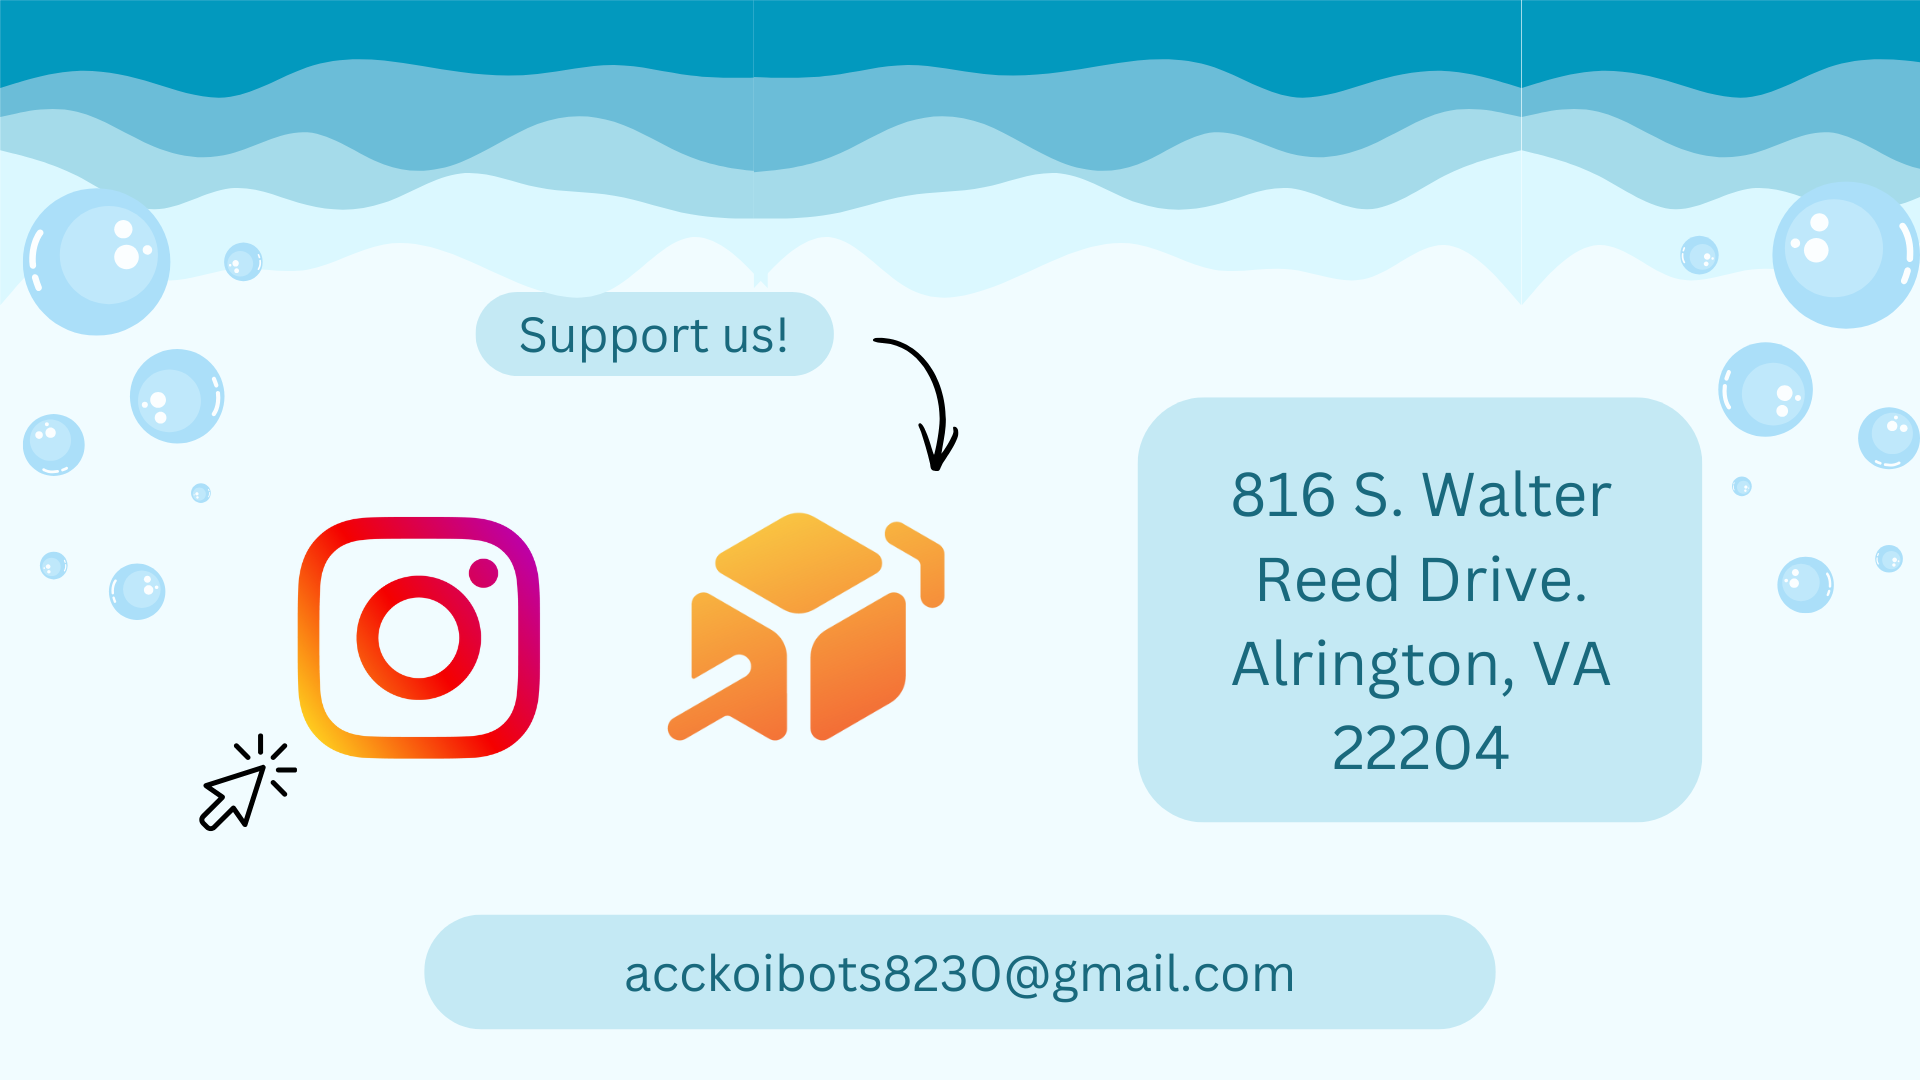
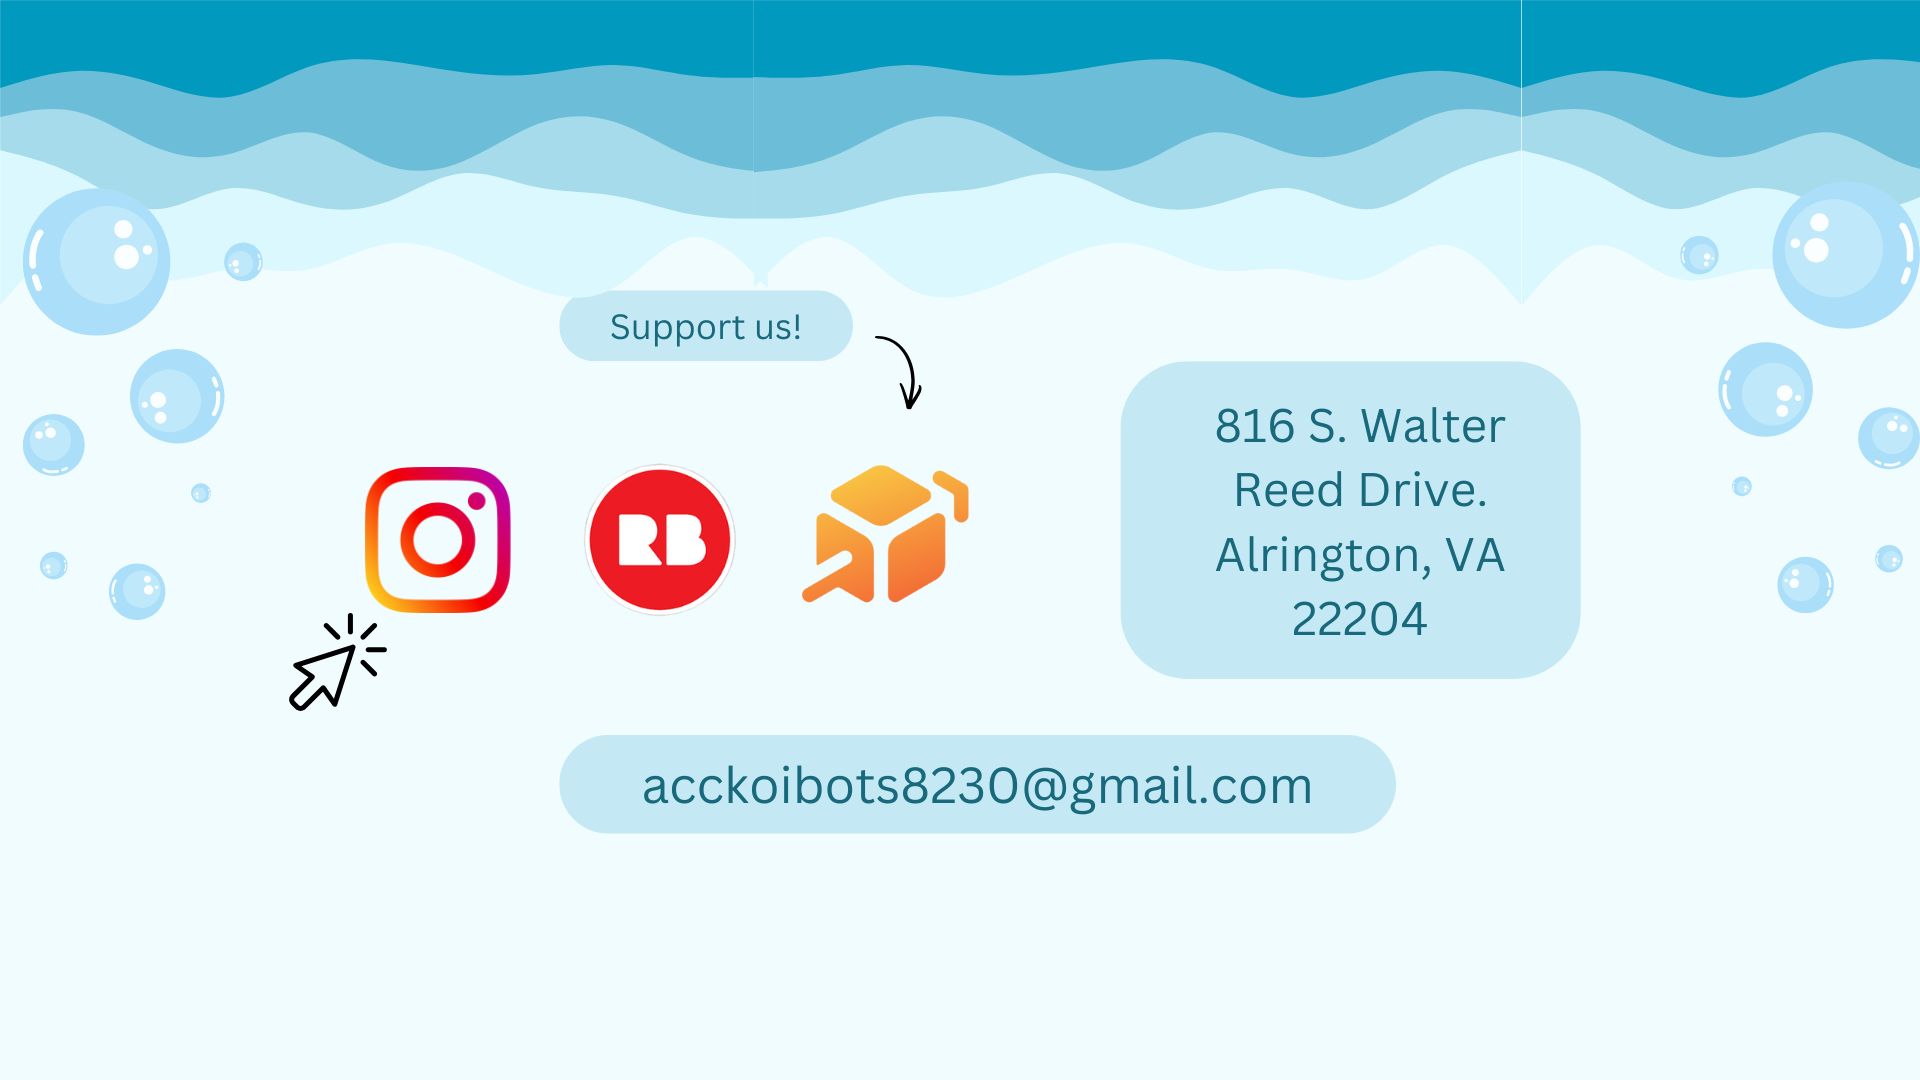
pushing everything

Changed region(s): [[0.0938, 0.2444, 0.9062, 0.7944], [0.2188, 0.825, 0.7812, 0.9778]]

diff --git a/projects/game/game.css b/projects/game/game.css
@@ -1,7 +1,7 @@
 body {
     margin: 0;
     padding: 20px;
-    background-color: lightpink;
+    background-color: LightBlue;
     font-family: 'Courier New', monospace;
     color: hotpink;
     height: 100vh;
@@ -13,8 +13,8 @@ h1{
 }
 
 .location{
-    background-color:lightpink;
-    color: lightpink;
+    background-color:LightBlue;
+    color: LightCyan;
     border-radius:5px;
 }
 
@@ -24,9 +24,9 @@ h1{
     flex-direction: column;
     max-width: 80%;
     margin: 0 auto;
-    border: 2px solid hotpink;
+    border: 2px solid Blue;
     padding: 20px;
-    background-color: lightpink;
+    background-color: LightBlue;
     overflow: hidden;
 }
 
@@ -48,7 +48,7 @@ h1{
 }
 
 .prompt {
-    color: hotpink;
+    color: Blue;
     margin-right: 10px;
     font-weight: bold;
 }
@@ -57,14 +57,14 @@ h1{
     flex: 1;
     background: transparent;
     border: none;
-    color: hotpink;
+    color: blue;
     font-family: 'Courier New', monospace;
     font-size: 16px;
     outline: none;
 }
 
 #user-input::placeholder {
-    color: hotpink;
+    color: LightBlue;
 }
 
 .ascii-art {

diff --git a/projects/client/index.html b/projects/client/index.html
@@ -73,6 +73,11 @@
 <img src="sep.png" class="separator"  alt="separator">
 <img src="mission.png" class="fullscreen" alt="mission">
 <img src="sep.png" class="separator"  alt="separator">
-<img src="footer.png" class="fullscreen" alt="footer">
+<img src="footer.png" class="fullscreen" alt="footer" usemap="#footerlinks">
+<map name="footerlinks">
+	<area shape="rect" coords="235, 285, 330, 380" alt="Insta" href="https://www.instagram.com/koibots">
+	<area shape="rect" coords="380, 285, 470, 380" alt="Redbubble" href="https://www.redbubble.com/shop/koibots">
+	<area shape="rect" coords="510, 285, 520, 380" alt="Cheddarup" href="https://my.cheddarup.com/c/koibots-support-page-2024-2025-copy-15842/items">
+</map>
 </body>
 </html>

diff --git a/practice/parade.html b/practice/parade.html
@@ -19,18 +19,20 @@ const canvas = document
 .getElementById("myCanvas");
 const ctx = canvas.getContext("2d");
 let x = 1;
-let x2 = 25;
-let x3 = 50;
-let x4 = 25;
-let Vx = 15;
-let Vx2 = 15;
-let Vx3 = 15;
-let Vx4 = 15;
-function parade(){
-	x = x + Vx;
-	x2 = x2 + Vx2;
-	x3 = x3 + Vx3;
-	x4 = x4 + Vx4;
+let x2 = 1;
+let x3 = 1;
+let x4 = 1;
+let speed=1
+let speed2=2
+let speed3=3
+let speed4=4
+let time=0;
+function animate(){
+time=time+1;
+	x = x + speed;
+	x2 = x2 + speed2;
+	x3 = x3 + speed3;
+	x4 = x4 + speed4;
 
 //circle
 ctx.fillStyle = "pink";
@@ -63,10 +65,9 @@ ctx.fill();
 
 
 
-requestAnimationFrame(parade);
+requestAnimationFrame(animate);
 }
-
-parade();
+	animate();
 
 			</script>
 	</body>

diff --git a/index.html b/index.html
@@ -12,9 +12,6 @@
 	</head>
 	<body>
 		<h1>Welcome to my homepage!</h1>
-		<p>My name is Erin Chen! I am a sophpomore at Arlington Tech. I am currently working on this website to develop my web skills. I plan on making this website about me, and my interests.</p>
-		<p>hi</p>
-		<p><q cite=https://www.today.com/life/quotes/short-quotes-rcna125321>You miss 100% of the shots you don’t take.</q>  — Wayne Gretzky.</p>
-		<img src="images/Chiikawa.jpeg" alt="Chiikawa" width="340" height="250">
+
 	</body>
 </html>

diff --git a/projects/game/index.html b/projects/game/index.html
@@ -3,12 +3,12 @@
 <head>
     <meta charset="UTF-8">
     <meta name="viewport" content="width=device-width, initial-scale=1.0">
-    <title>Chris Needs Coffee</title>
+    <title>Steal A Toaster</title>
     <link rel="stylesheet" href="game.css">
 
 </head>
 <body>
-    <h1>Chris Needs Coffee</h1>
+    <h1>Steal A Toaster</h1>
     <div id="terminal">
         <div id="output"></div>
         <div id="input-line">

diff --git a/practice/zoo/style.css b/practice/zoo/style.css
@@ -5,9 +5,18 @@ table, td, tr, th{
 }
 body{
 	background-color: #A9F5CE;
+	font-family: "Times new roman", serif;
+}
+a {
+	background-color: green;
+}
+p {
+	background-color: pink;
 }
 h1{
 	background-color: #A9F5CE;
+	padding: 10px;
+	padding-left: 5px;
 }
 #info{
 	background-color: BurlyWood;}
